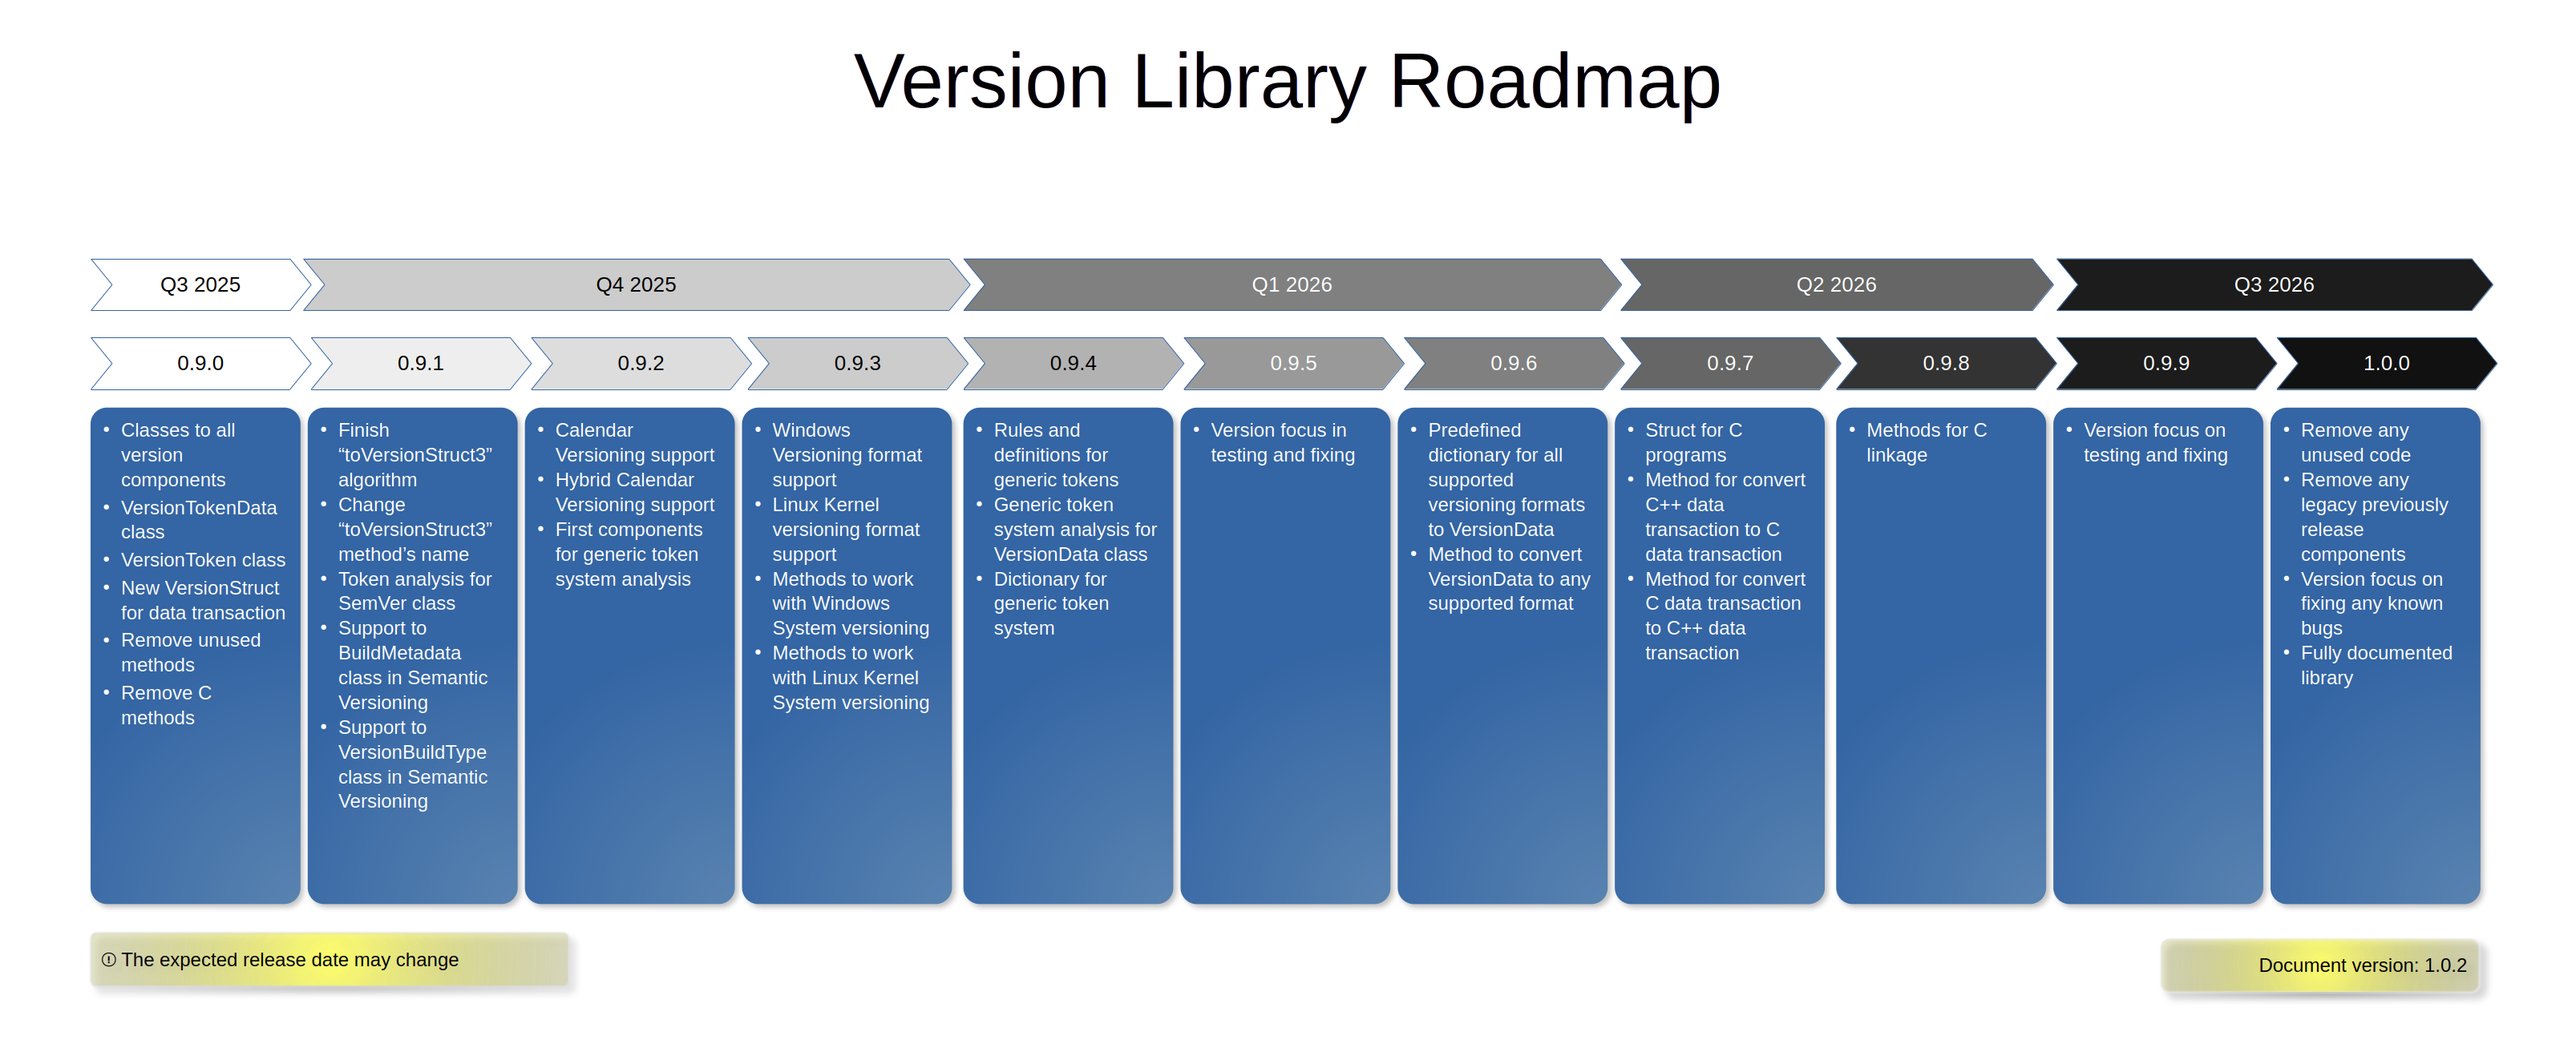
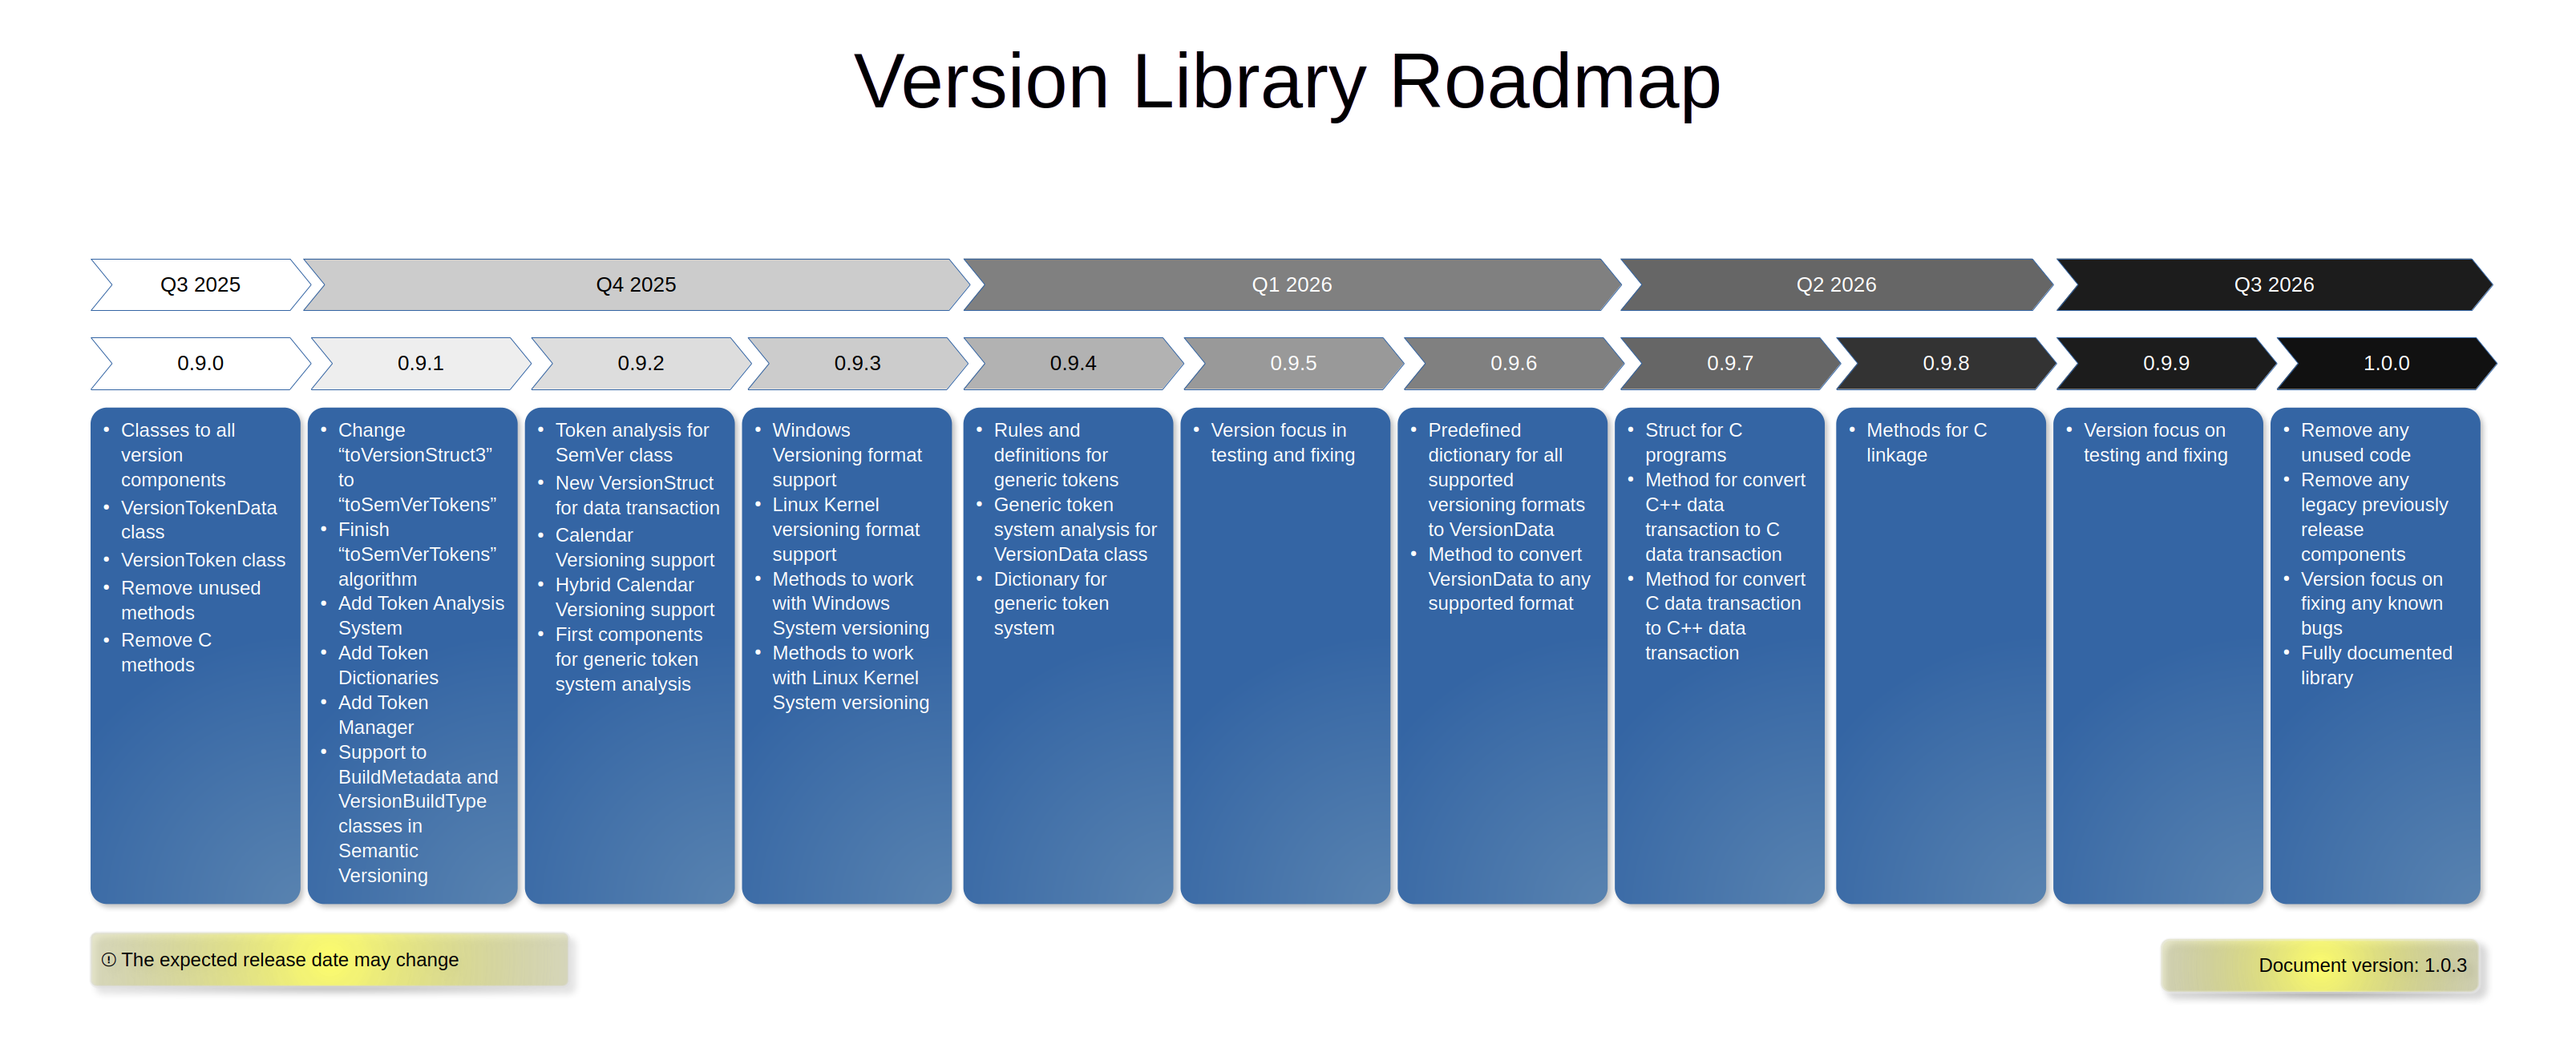
Updated documentation

diff --git a/Libraries/VersionLib/VersionLib/Docs/VersionLibInfo.md b/Libraries/VersionLib/VersionLib/Docs/VersionLibInfo.md
@@ -76,12 +76,16 @@ This document contains the information about the future plans, known bugs, depre
 | 17 | ~~`VersionStruct2` does not recognizes revision~~ |  | FIXED |
 | 18 | ~~`toVersionStruct3` does not generate internal tokens correctly~~ |  | FIXED |
 | 19 | `toSemVerTokens` does not convert correctly the token type | All numerical values, except the first one, are defined as `UNDEFINED_TOKEN` | Not fixed |
+| 20 | Experimental algorithm `toSemVerTokens` does not identify some separators in version string | Disable `VERSION_LIB_ENABLE_EXPERIMENTAL_TOSEMVERTOKENS_METHOD2` | Not fixed |
+| 21 | Experimental algorithm `toSemVerTokens` does not identify the release components | Disable `VERSION_LIB_ENABLE_EXPERIMENTAL_TOSEMVERTOKENS_METHOD2` | Not fixed |
+| 22 | Experimental algorithm `toSemVerTokens` separate metadata with dash, creating two tokens | Disable `VERSION_LIB_ENABLE_EXPERIMENTAL_TOSEMVERTOKENS_METHOD2` | Not fixed |
+| 23 | Experimental algorithm `toSemVerTokens` does not identify completely the build number | Disable `VERSION_LIB_ENABLE_EXPERIMENTAL_TOSEMVERTOKENS_METHOD2` | Not fixed |
 
 ## Deprecated Features:
 
 | Feature | Details | Workaround | Notes |
 | :------ | :-----: | :--------: | ----: |
-| `VersionStruct` | This component has been difficult to keep with the library complexity increases. The *DataTransaction* classes will fit better this scenario and allow to keep the all internal data safe during creation, manipulation and destruction, using less external components to manage internal data. | N/A | The library is actually in *transaction phase* to start add Token System and use the already existing classes for internal Version objects |
+| `VersionStruct` | This component has been difficult to keep with the library complexity increases. The *DataTransaction* class will fit better this scenario and allow to keep the all internal data safe during creation, manipulation and destruction, using less external components to manage internal data. | N/A | The library is actually in *transaction phase* to start the usage of Token System and use the already existing classes for internal Version objects |
 
 ## Removed Features:
 
@@ -90,4 +94,4 @@ This document contains the information about the future plans, known bugs, depre
 | `toVersionStruct` | Deprecated method because is not reliable to convert the version information to `VersionStruct` | Use `toVersionStrut2` with more reliable semantic versioning conversion. | Removed on version **0.9.0-alpha** |
 | Original `VersionData` comparison operators are deprecated. | The original implementation of comparison operators `> >= < <=` are deprecated because are defective | No workaround is necessary | Removed on version **0.9.0-alpha** |
 | Original `VersionData` constructors are deprecated and the *experimental constructors* are the default development. | The *experimental constructors* are enabled by default with `VERSION_LIB_ENABLE_EXPERIMENTAL_VERSIONDATA_CONSTRUCTORS`. *The constructor with string version parameter still working.* | To disable the experimental constructors, disable the `VERSION_LIB_ENABLE_EXPERIMENTAL_VERSIONDATA_CONSTRUCTORS` on `ExperimentalFeatures.hpp` | Removed on version **0.9.0-alpha** |
-
+| `toVersionStruct3` | The method was renamed and internal components was adapted to new approach for `toSemVerTokens` | Call the methods `toVersionStruct2` or `toSemVerTokens`, using the correct data types | Removed on version **0.9.1-alpha** |
